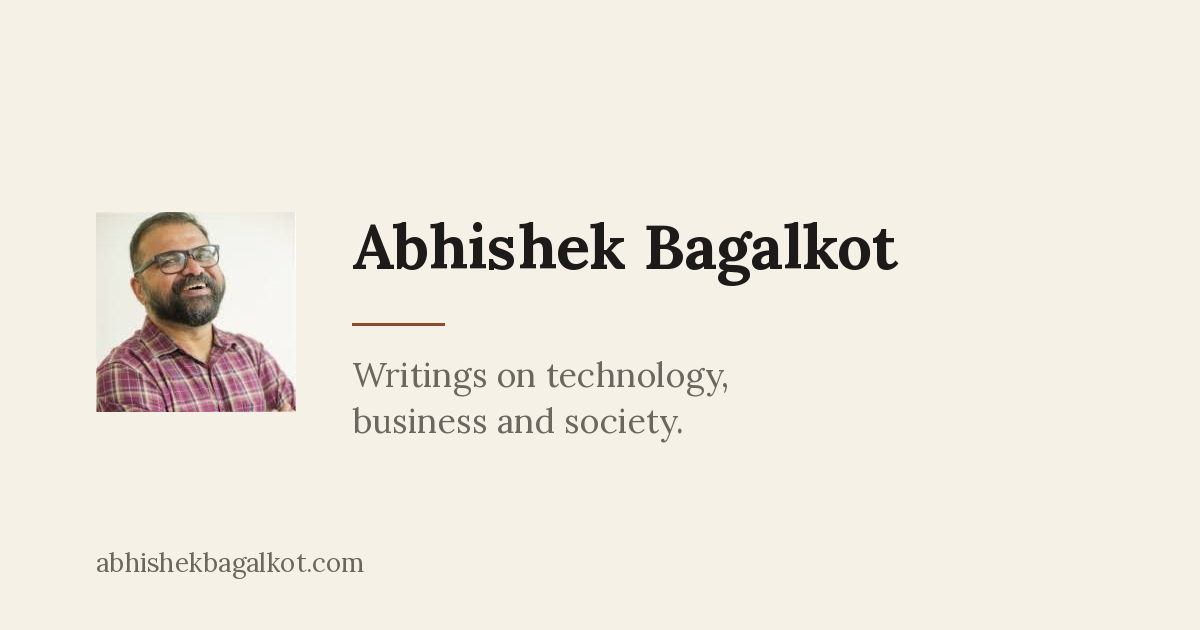
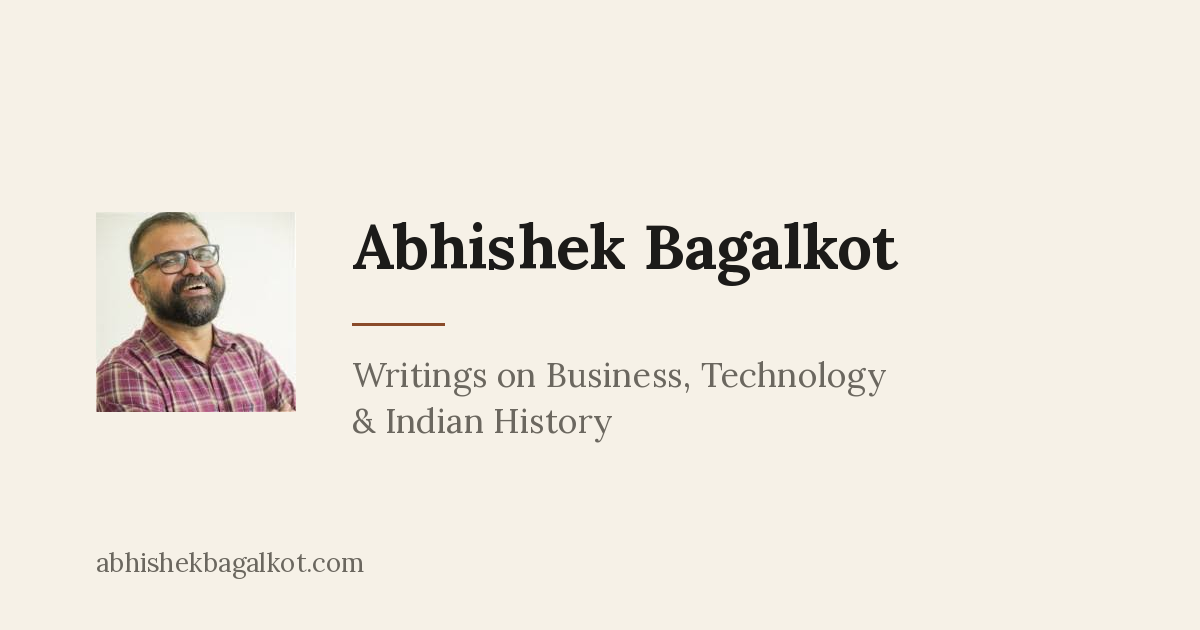
Rename India category to History, add Business, update site description and share card
Claude-Session: https://claude.ai/code/session_01WQuVewomhsjNK1H9Q6r677

Changed region(s): [[0.2775, 0.573, 0.74, 0.6937]]

diff --git a/content/posts/_index.md b/content/posts/_index.md
@@ -1,4 +1,4 @@
 ---
 title: "Writings"
-summary: "Essays on technology, business and society — mostly on what happens when a working model meets a working day."
+summary: "Essays on business, technology and Indian history — mostly on what happens when an idea meets a working day."
 ---

diff --git a/content/categories/history/_index.md b/content/categories/history/_index.md
@@ -1,0 +1,5 @@
+---
+title: "Writings: History"
+aliases:
+  - /categories/india/
+---

diff --git a/content/categories/business/_index.md b/content/categories/business/_index.md
@@ -1,0 +1,3 @@
+---
+title: "Writings: Business"
+---
